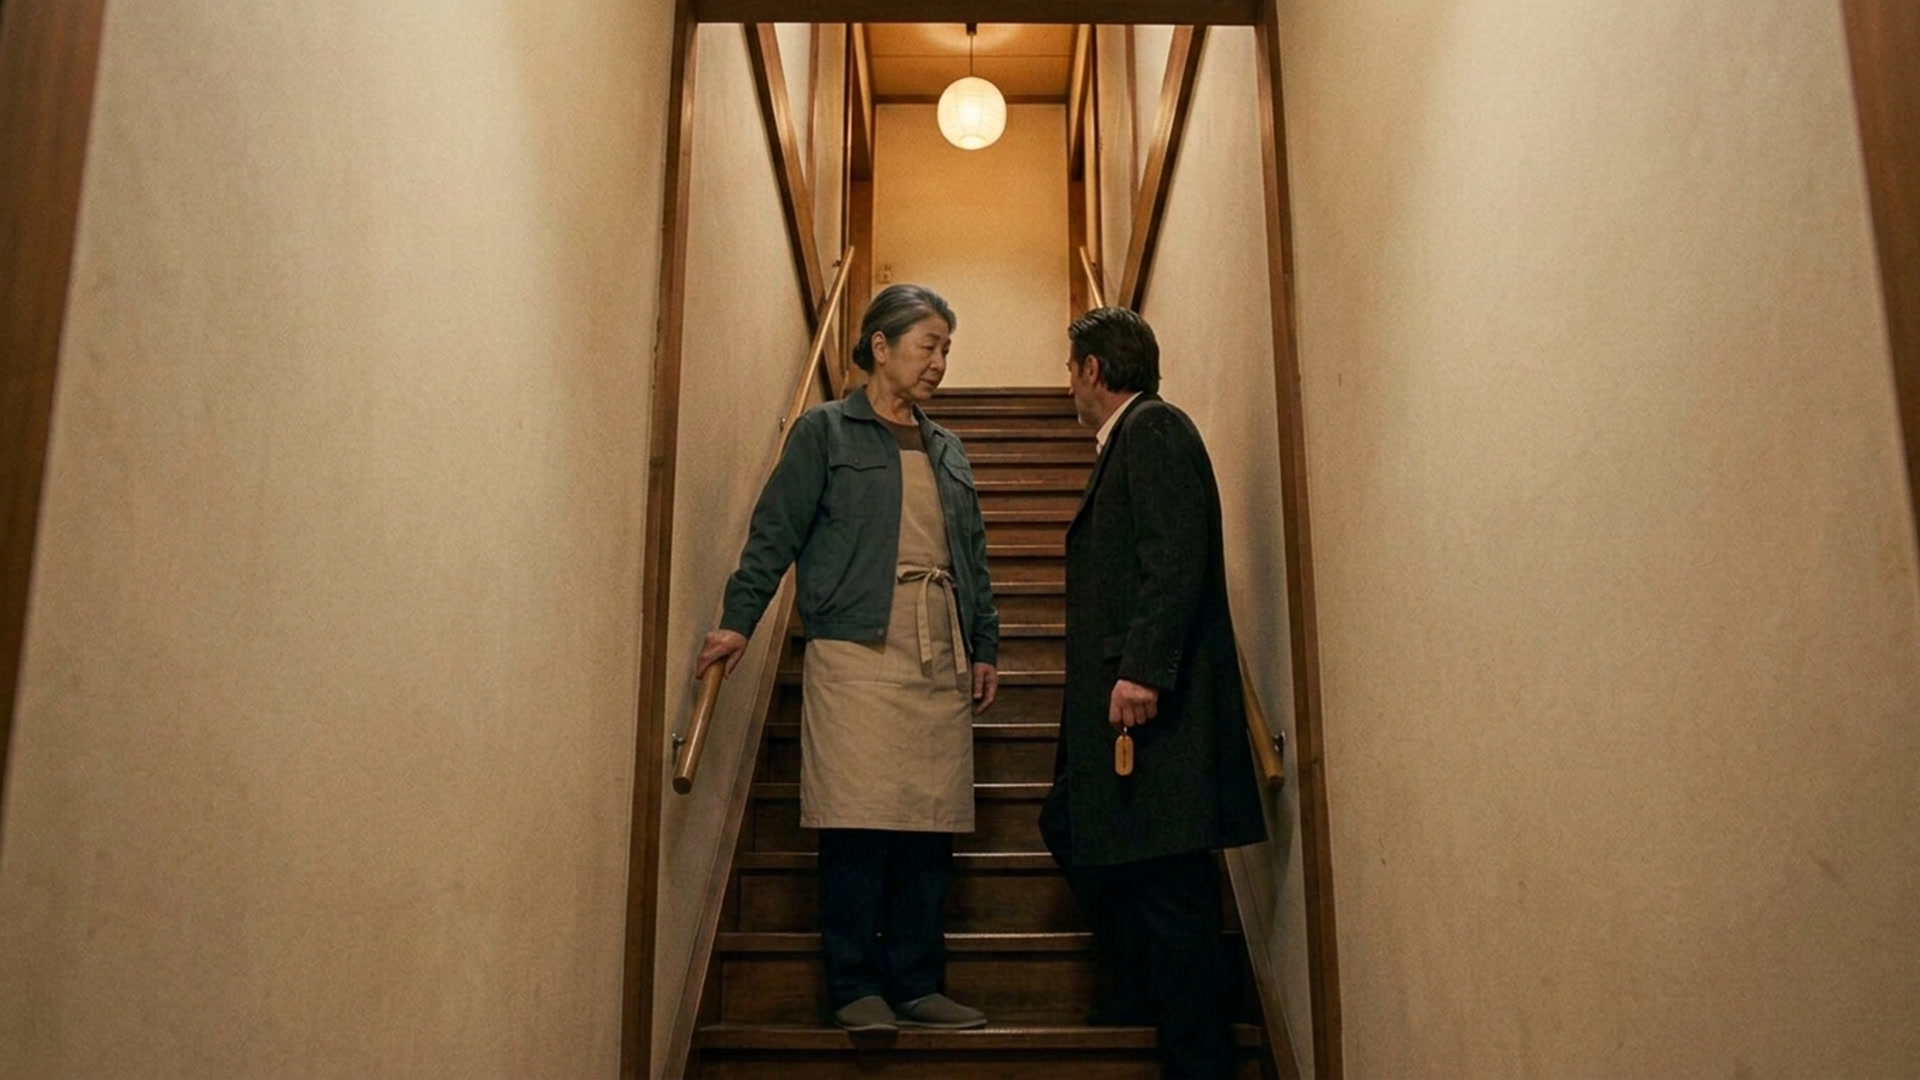
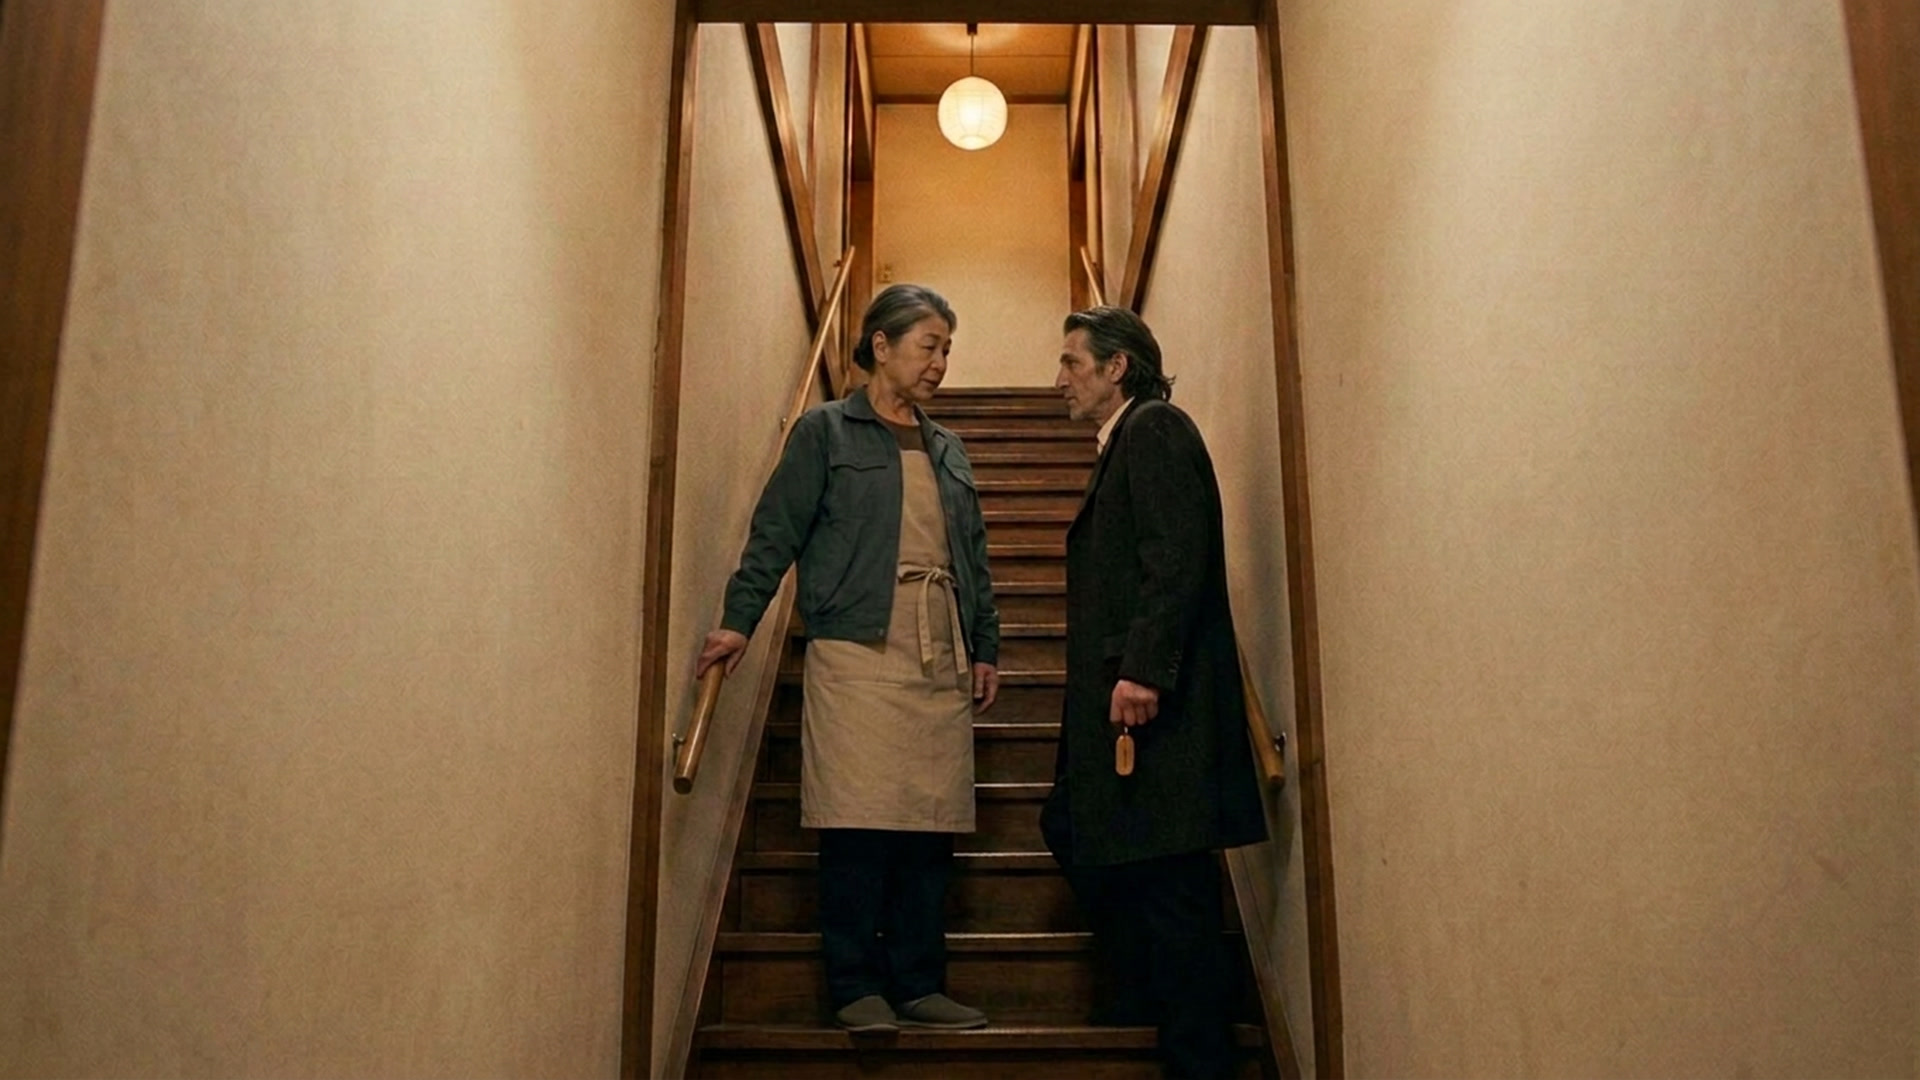
Fix Jack in 171, make the depth preview usable by an agent
171-upstairs-at-the-end: the Mrs Noda replacement also redrew Jack with a short black head.
Remade with both sheets passed in; 170/206/458/209 audited against jack-face.jpg and left alone.

preview-depth/: deep links (?shot=&play=&filter=), node shots.mjs --list for a text
shortlist with URLs, and an agent section in the README. CLAUDE.md now points at it.

Changed region(s): [[0.5312, 0.2444, 0.625, 0.3972], [0.5625, 0.0306, 0.5938, 0.2139], [0.4375, 0.0917, 0.4688, 0.1833]]

diff --git a/preview-depth/src/App.tsx b/preview-depth/src/App.tsx
@@ -26,13 +26,32 @@ function withSpeed(c: CinematicSettings, speed: number): CinematicSettings {
   return { ...c, depthSeconds: Math.max(2, seconds / speed) };
 }
 
+/** Deep links, so a script (or an agent without a mouse) can open one shot directly:
+ *  `?shot=<name>` opens that shot's big view, `?filter=<id>` picks a filter, `?play=1` starts the move at once. */
+function fromUrl() {
+  if (typeof window === "undefined") return { filter: undefined, shot: undefined, play: false };
+  const q = new URLSearchParams(window.location.search);
+  const filter = q.get("filter");
+  const shot = q.get("shot");
+  const play = ["1", "true", "yes"].includes(q.get("play") ?? "");
+  return {
+    filter: FILTERS.some((f) => f.id === filter) ? (filter as Filter) : undefined,
+    shot: shot ? (shots.find((s) => s.name === shot) ?? undefined) : undefined,
+    play,
+  };
+}
+
 export function App() {
   const hasExperiments = shots.some((s) => (s as Shot & { experiment?: unknown }).experiment);
-  const [filter, setFilter] = useState<Filter>(hasExperiments ? "experiments" : "cuts");
+  const initial = useMemo(fromUrl, []);
+  // A named shot has to be in the current filter's list or its card would not be on the page.
+  const [filter, setFilter] = useState<Filter>(
+    initial.filter ?? (initial.shot ? "all" : hasExperiments ? "experiments" : "cuts"),
+  );
   const [speed, setSpeed] = useState(1);
   const [showMap, setShowMap] = useState(true);
-  const [live, setLive] = useState<string[]>([]);
-  const [open, setOpen] = useState<Shot | null>(null);
+  const [live, setLive] = useState<string[]>(initial.shot && initial.play ? [initial.shot.name] : []);
+  const [open, setOpen] = useState<Shot | null>(initial.shot ?? null);
   const [tick, setTick] = useState(0);
 
   const active = FILTERS.find((f) => f.id === filter) ?? FILTERS[0];

diff --git a/preview-depth/README.md b/preview-depth/README.md
@@ -39,3 +39,39 @@ Filters: **Cut-out shots** (has `depthCutouts`), **Flagged 22 Oct** (the automat
 This is a look, not the film: the film adds the grade, grain, lens effects and the dialogue layer on top. Record the
 real frames with `node tools/depth-frames.mjs <scene> <picture> /tmp/frames 16 2` before calling a shot done
 (`docs/depth-camera.md` §5).
+
+## If you are an agent (no mouse, maybe no eyes)
+
+This folder is here so a shot with cut-outs can be *watched* instead of guessed at. Everything the app draws comes from
+the repo's own data, so most of it is readable without a browser:
+
+| You want | Do this |
+|---|---|
+| The inventory: every depth shot, its real move, its cut-outs, its 22 Oct flags | `node shots.mjs` then read `src/shots.json` |
+| A shortlist as text, with a URL per shot | `node shots.mjs --list [cuts\|people\|flagged\|experiments\|all]` (default `cuts`) |
+| One shot on screen | open `http://localhost:5179/?shot=<name>&play=1` (URL-encode the name), or `?filter=<id>` |
+| The rendered move as images | Playwright is already a dependency of `tools/depth-frames.mjs`; see the snippet below |
+
+Deep links: `?shot=<name>` opens that shot's big view (still, move, map, plate), `?play=1` starts the move immediately,
+`?filter=experiments|cuts|flagged|people|all` picks the grid. `DEPTH_PREVIEW_URL` overrides the base URL in `--list`.
+
+    npm install          # preview-depth only
+    npm run dev          # 0.0.0.0:5179
+    # then, from a folder that has playwright installed (the repo root does):
+    node -e 'import("playwright").then(async ({chromium}) => {
+      const b = await chromium.launch({args:["--use-gl=angle","--use-angle=swiftshader","--enable-unsafe-swiftshader"]});
+      const p = await b.newPage({viewport:{width:1280,height:720}});
+      await p.goto("http://localhost:5179/?shot=200-the-number-114&play=1");
+      await p.waitForTimeout(4000);
+      await p.screenshot({path:"/tmp/200-big.png"}); await b.close(); });'
+
+Three things to keep in mind:
+
+* **It is a look, not a delivery.** No grade, grain or dialogue layer. Judge geometry and cut-out edges here; record the
+  shipped frames with `tools/depth-frames.mjs` (game dev server, port 5173) before calling a shot done.
+* **Six cameras at most** (`MAX_LIVE`) — a browser keeps about 16 WebGL contexts and silently drops the oldest, so a
+  screenshot of the whole grid past six cards would show blanks. Screenshot one card at a time.
+* **SwiftShader is slow.** Software WebGL needs a few seconds per live card; a still (no `play=1`) is immediate.
+
+The tool is only as current as `shots.json`: it is rebuilt by `npm run dev` / `npm run shots`, so re-run it after
+changing `src/film/studio-edits.json` or `docs/film-depth-layers.json`.

diff --git a/FILM.md b/FILM.md
@@ -851,3 +851,14 @@ Recreated from each picture with the sheet as the identity reference, and instal
 Composition, camera, props and every other character in each shot are unchanged. None of the six carried a depth map,
 plate or cut-outs, so no layers had to be remade; `206` is listed in `peopleInShot` but has no depth entry, which
 `npm run test:film-depth` allows. Film data rebuilt; film depth and film backend checks pass.
+
+### The Jack that came back wrong (same day)
+
+The first replacement of `171-upstairs-at-the-end` also changed **Jack**: his long dark hair, swept back and greying at
+the temples, came back as a short, uniformly black head, so the man on the stairs read as a stranger rather than as Jack.
+Audited every regenerated frame against `public/film/img/sheets/jack-face.jpg` and the archived originals — `170`, `206`,
+`458` and `209` all still hold Jack's gaunt face and grey-streaked hair; only `171` was wrong. Remade it with the woman's
+sheet *and* Jack's face sheet passed in together, changing nothing but his head (old file archived as `--v2`).
+
+The rule this leaves: **pass every character's sheet, not just the one being replaced** — an image edit redraws the whole
+frame, and the person you did not mention is the one that drifts.

diff --git a/CLAUDE.md b/CLAUDE.md
@@ -26,6 +26,8 @@ Read `docs/depth-camera.md` before adding or changing any depth map, plate or cu
 
 Check maps with `tools/review-depth-maps.py` and watch the move with `tools/depth-frames.mjs` before calling a shot done.
 
+To survey depth shots in bulk, use `preview-depth/` (its README has a section for agents): `node preview-depth/shots.mjs --list cuts` prints every shot with cut-outs, its real move, its 22 Oct flags and a `?shot=` URL that opens it; `?shot=<name>&play=1` runs one shot's move in a browser. It imports the same `DepthParallaxLayer` the film plays, so what it shows is the engine's move, not an approximation. It is a look only (no grade/grain/dialogue) — still record the shipped frames with `tools/depth-frames.mjs`.
+
 ## The Studio's image library
 
 `tools/builtin-images.mjs` is what every image box in the Studio can offer: `public/img` and `public/assets`, the
